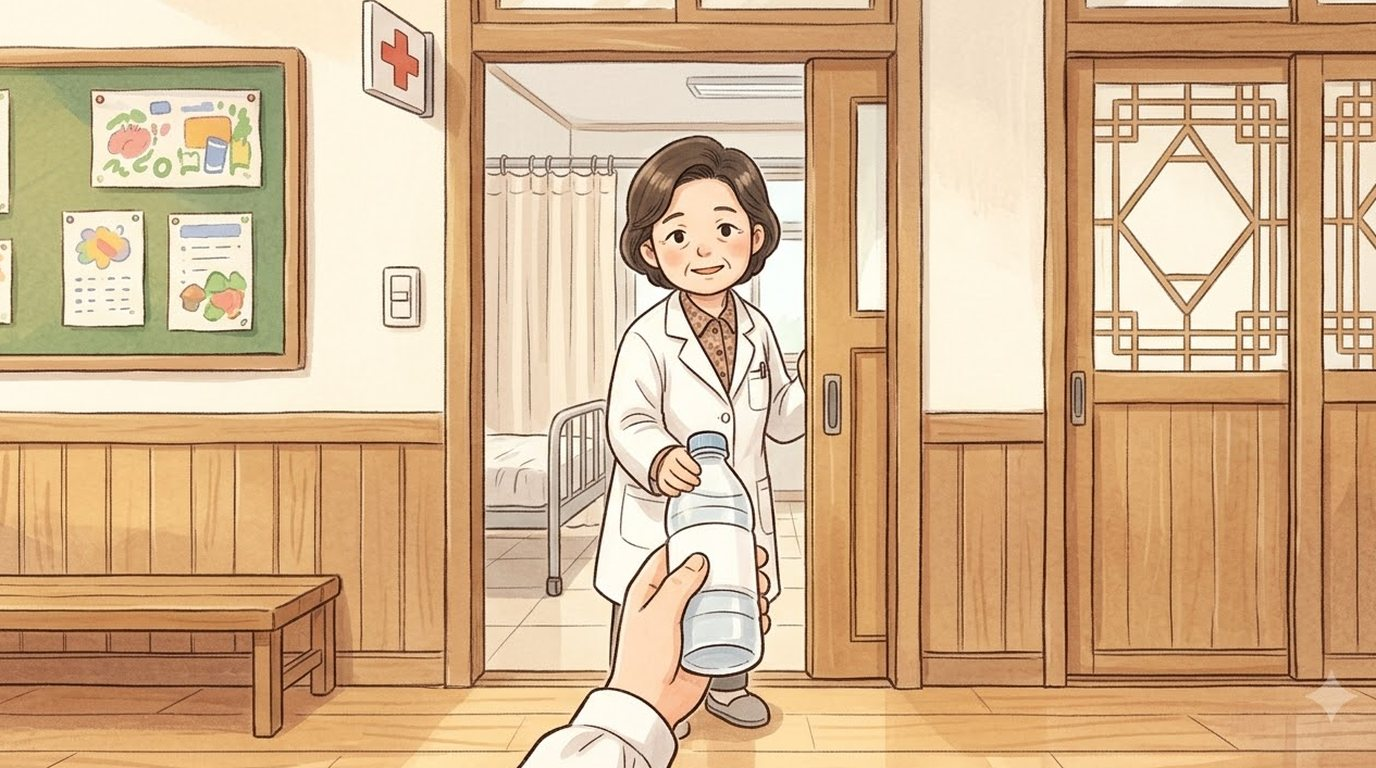
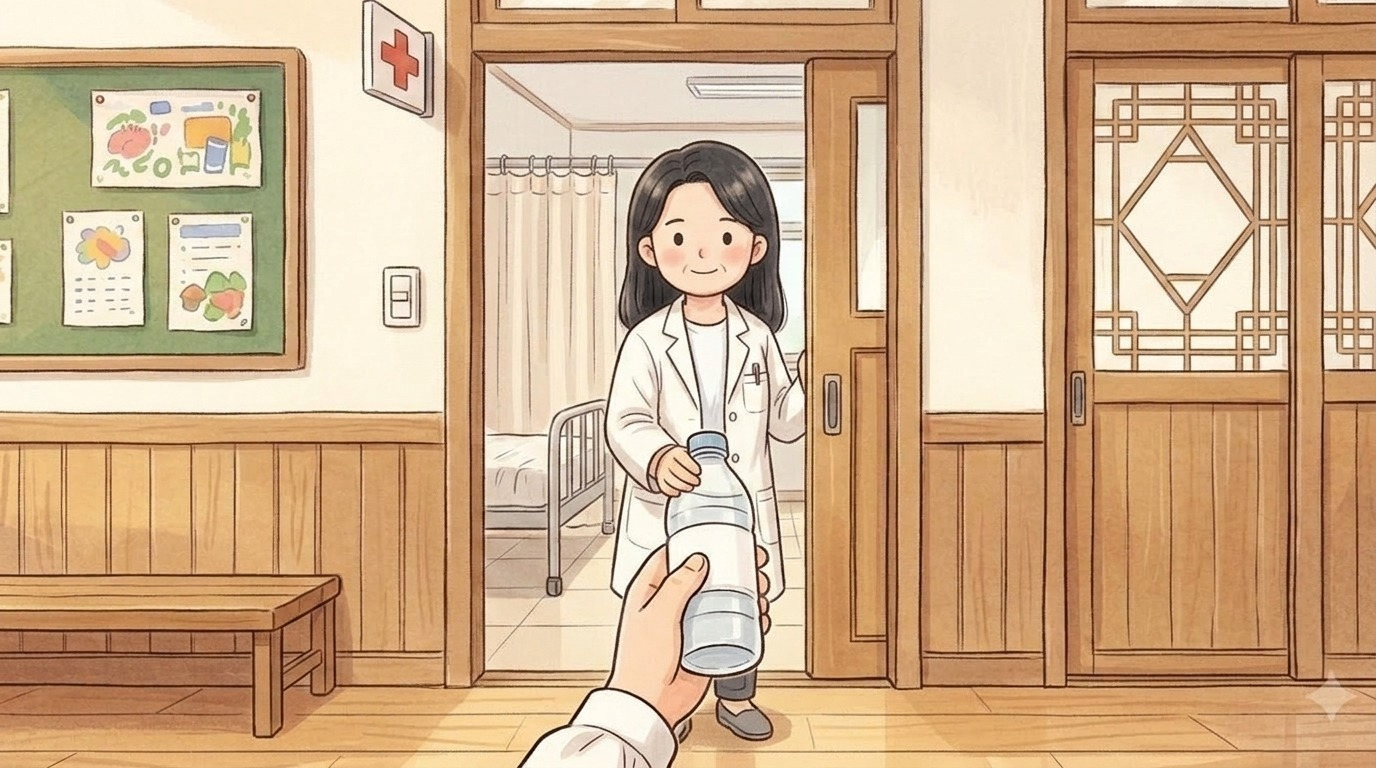
Haneul meeting 5: the school nurse at the door looks like the nurse in Haeun's story (white coat, dark shoulder-length hair) (11/07 AI check)

Changed region(s): [[0.4062, 0.1562, 0.5938, 0.875], [0.4688, 0.875, 0.5938, 1.0]]

diff --git a/index.html b/index.html
@@ -119,14 +119,14 @@ body,button{word-break:keep-all;overflow-wrap:break-word}
 <div id="fader"></div>
 <script>
 // same address, newest version: if the page this phone has kept is older than the one online, fetch the new one and reopen
-const BUILD='1107121639';
+const BUILD='1107121802';
 try{fetch(location.pathname,{cache:'no-store'}).then(r=>r.text()).then(t=>{const m=t.match(/const BUILD='(\d+)'/);if(m&&m[1]!==BUILD&&sessionStorage.getItem('upd')!==m[1]){sessionStorage.setItem('upd',m[1]);fetch(location.pathname,{cache:'reload'}).then(()=>location.reload())}}).catch(()=>{})}catch(e){}
 </script>
-<script src="i18n.js?v=1107121639"></script>
-<script src="i18n_prologue_v2.js?v=1107121639"></script>
-<script src="day2/i18n_engine.js?v=1107121639"></script>
-<script src="day2/data.js?v=1107121639"></script>
-<script src="day3/data.js?v=1107121639"></script>
+<script src="i18n.js?v=1107121802"></script>
+<script src="i18n_prologue_v2.js?v=1107121802"></script>
+<script src="day2/i18n_engine.js?v=1107121802"></script>
+<script src="day2/data.js?v=1107121802"></script>
+<script src="day3/data.js?v=1107121802"></script>
 <script>
 // ---------- data ----------
 const MW=1672,MH=941,KID=180;
@@ -550,34 +550,34 @@ function pickHero(){const m=document.getElementById('modal'),c=document.getEleme
  c.innerHTML=`<h2>${tr('전학생 반장되기')}</h2><p>${tr('한국말이 아직 서툰 전학생,<br>반장 선거에 나가다.')}</p><p style="margin-top:14px">${tr('누구로 할까요?')}</p>${(()=>{const s=loadSave();return s&&s.day>=2&&s.mode===UI+'-'+LANG?`<p><button class="big" id="cont">${tr('{n}일차부터 이어 하기').replace('{n}',s.day)}</button></p>`:''})()}<div class="pick heroes"><button data-h="hero_f"><img src="faces/hero_f_smile.jpg" alt="여자 주인공">${heroName(1)}</button><button data-h="hero_m"><img src="faces/hero_m_smile.jpg" alt="남자 주인공">${heroName(0)}</button></div>`;
  m.classList.add('on');{const cb=document.getElementById('cont');if(cb)cb.onclick=()=>{const s=loadSave();HERO=s.hero;Object.assign(HEART,s.heart||{});(s.found||[]).forEach(k=>FOUND.add(k));HEART_D1={...HEART};chime();(typeof contGame==='function'?contGame(s):startDay(Math.min(s.day,Object.keys(window.D3||{}).length?3:2)))}}c.querySelectorAll('.pick button').forEach(b=>b.onclick=()=>{HERO=b.dataset.h;m.classList.remove('on');chime();bgm('day');load('home_am');say([['nar','','이사 온 다음 날 아침. 아직 풀지 못한 상자들이 쌓여 있다.'],['think','sad','(오늘부터 새 학교야. 여기 말도 아직 서툰데…….)'],['think','smile','({m}한테 인사하고 학교 가야지.)']],morning)})}
 </script>
-<script src="day2/engine.js?v=1107121639"></script>
-<script src="day2/ep_minho.js?v=1107121639"></script>
-<script src="day2/meet.js?v=1107121639"></script>
-<script src="day2/ep_sua.js?v=1107121639"></script>
-<script src="day2/ep_hangyeol.js?v=1107121639"></script>
-<script src="day2/ep_siwoo.js?v=1107121639"></script>
-<script src="day2/ep_haram.js?v=1107121639"></script>
-<script src="day2/ep_jiho.js?v=1107121639"></script>
-<script src="day2/ep_hyeeun.js?v=1107121639"></script>
-<script src="day2/ep_haneul.js?v=1107121639"></script>
-<script src="day2/ep_junho.js?v=1107121639"></script>
-<script src="day2/ep_yuna.js?v=1107121639"></script>
-<script src="day2/ep_yena.js?v=1107121639"></script>
-<script src="day2/ep_haeun.js?v=1107121639"></script>
-<script src="day2/ep_youngmin.js?v=1107121639"></script>
-<script src="day2/ep_seah.js?v=1107121639"></script>
-<script src="day2/ep_jihoon.js?v=1107121639"></script>
-<script src="words_ja_ru.js?v=1107121639"></script>
-<script src="day2/mybag.js?v=1107121639"></script>
-<script src="day2/wordpics.js?v=1107121639"></script>
-<script src="day2/spots.js?v=1107121639"></script>
-<script src="day2/textfit.js?v=1107121639"></script>
-<script src="day2/tester.js?v=1107121639"></script>
-<script src="day2/ux.js?v=1107121639"></script>
-<script src="day2/tapword.js?v=1107121639"></script>
-<script src="day2/review.js?v=1107121639"></script>
-<script src="day2/ep_ending.js?v=1107121639"></script>
-<script src="day2/ending.js?v=1107121639"></script>
+<script src="day2/engine.js?v=1107121802"></script>
+<script src="day2/ep_minho.js?v=1107121802"></script>
+<script src="day2/meet.js?v=1107121802"></script>
+<script src="day2/ep_sua.js?v=1107121802"></script>
+<script src="day2/ep_hangyeol.js?v=1107121802"></script>
+<script src="day2/ep_siwoo.js?v=1107121802"></script>
+<script src="day2/ep_haram.js?v=1107121802"></script>
+<script src="day2/ep_jiho.js?v=1107121802"></script>
+<script src="day2/ep_hyeeun.js?v=1107121802"></script>
+<script src="day2/ep_haneul.js?v=1107121802"></script>
+<script src="day2/ep_junho.js?v=1107121802"></script>
+<script src="day2/ep_yuna.js?v=1107121802"></script>
+<script src="day2/ep_yena.js?v=1107121802"></script>
+<script src="day2/ep_haeun.js?v=1107121802"></script>
+<script src="day2/ep_youngmin.js?v=1107121802"></script>
+<script src="day2/ep_seah.js?v=1107121802"></script>
+<script src="day2/ep_jihoon.js?v=1107121802"></script>
+<script src="words_ja_ru.js?v=1107121802"></script>
+<script src="day2/mybag.js?v=1107121802"></script>
+<script src="day2/wordpics.js?v=1107121802"></script>
+<script src="day2/spots.js?v=1107121802"></script>
+<script src="day2/textfit.js?v=1107121802"></script>
+<script src="day2/tester.js?v=1107121802"></script>
+<script src="day2/ux.js?v=1107121802"></script>
+<script src="day2/tapword.js?v=1107121802"></script>
+<script src="day2/review.js?v=1107121802"></script>
+<script src="day2/ep_ending.js?v=1107121802"></script>
+<script src="day2/ending.js?v=1107121802"></script>
 <script>
 // the goal shows big for a few seconds, then folds into a small pill (tap it to open it again)
 {const g=document.getElementById('goal');let t=null;const big=()=>{g.classList.remove('mini');clearTimeout(t);t=setTimeout(()=>g.classList.add('mini'),4000)};
